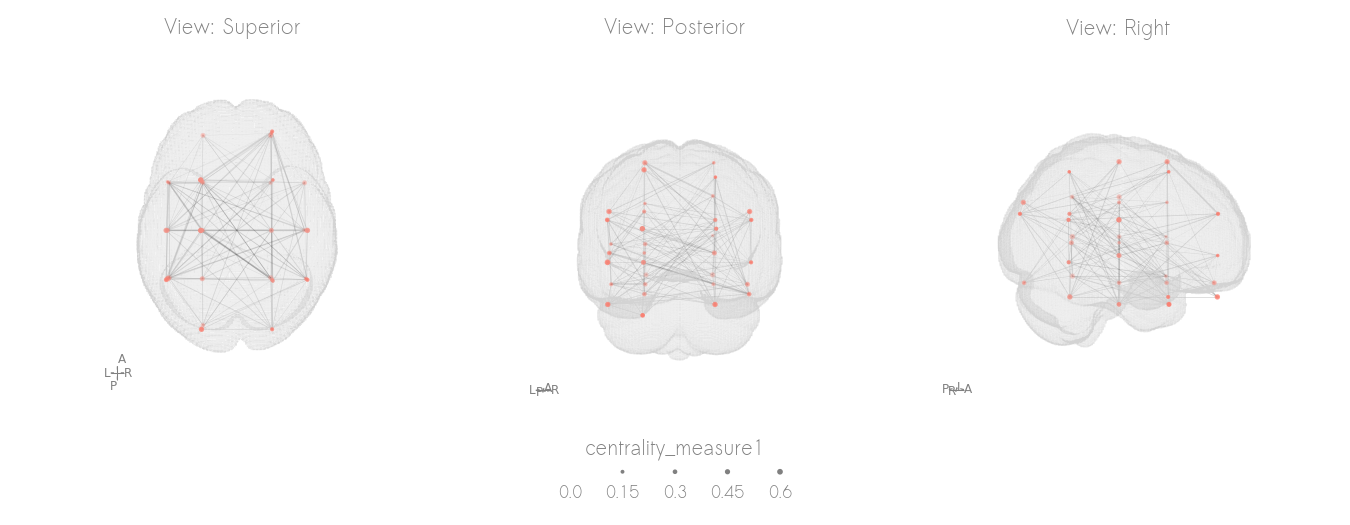
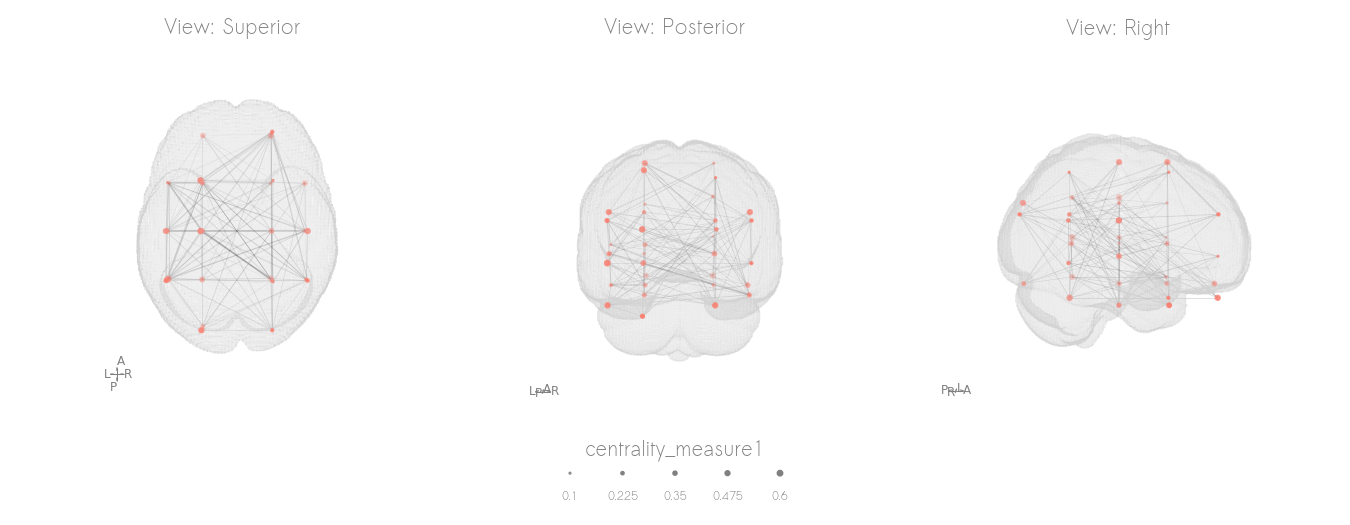
kwarg improvements

diff --git a/netplotbrain/plot.py b/netplotbrain/plot.py
@@ -7,13 +7,12 @@ from .plotting import _plot_template, \
     _add_nodesize_legend, _add_nodecolor_legend, _init_figure, _check_axinput
 
 
-from .utils import _highlight_nodes, _get_colorby_colors, _set_axes_equal, _get_view, _load_profile
+from .utils import _highlight_nodes, _get_colorby_colors, _set_axes_equal, _get_view, _load_profile, _nrows_in_fig
 
 
 def plot(nodes=None, fig=None, ax=None, view='L', frames=1, edges=None, template=None, templatestyle='filled',
          templatevoxsize=None, arrowaxis='auto', arroworigin=None, edgecolor='k', nodesize=1, nodecolor='salmon', nodetype='circles', nodecolorby=None,
-         nodecmap='Dark2', edgescale=1, edgeweights=True, nodecols='auto', nodeimg=None, nodealpha=1, hemisphere='both', title='auto', highlightnodes=None,
-         edgealpha=1, highlightlevel=0.85, edgehighlightbehaviour='both', showlegend=True, **kwargs):
+         nodecmap='Dark2', edgeweights=True, nodecols='auto', nodeimg=None, hemisphere='both', title='auto', highlightnodes=None, showlegend=True, **kwargs):
     """
     Plot a network on a brain
 
@@ -109,12 +108,14 @@ def plot(nodes=None, fig=None, ax=None, view='L', frames=1, edges=None, template
         String that specifies column in edge dataframe that contains weights.
         If numpy array is edge input, can be True (default) to specify edge weights.
     edgealpha : float
-        Transparency of edges.
+        Transparency of edges (default: 1).
     edgehighlightbehaviour : str
         Alternatives "both" or "any" or None.
         Governs edge dimming when highlightnodes is on
         If both, then highlights only edges between highlighted nodes.
         If any, then only edges connecting any of the nodes are highlighted.
+    edgewidthscale : int, float
+        Scale the width of all edges by a factor (default: 1)
 
     TEMPLATE KWARGS
 
@@ -175,23 +176,15 @@ def plot(nodes=None, fig=None, ax=None, view='L', frames=1, edges=None, template
     nodes, nodeimg, nodecols = _process_node_input(
         nodes, nodeimg, nodecols, template, templatevoxsize)
     edges, edgeweights = _process_edge_input(edges, edgeweights)
-    # TODO add function for subplot creation here
-    # get the number of views
-    if isinstance(view, list):
-        nrows = len(view)
-    else:
-        nrows = 1
-        view = [view]
-    # If specific views are given, calculate value of frames.
-    if len(view[0]) > 2:
-        frames = len(view[0])
+
     # Set up legend row
+    # TODO compact code into subfunction
     legends = None
     legendrows = 0
     if isinstance(showlegend, list):
         legends = showlegend
         legendrows = len(legends)
-    if showlegend is True:
+    elif showlegend is True:
         # Only plot size legend is sphere/circle and string or list input
         # TODO setup_legend is a little clunky and could be fized
         if nodetype != 'parcel' and not isinstance(nodesize, (float, int)):
@@ -205,20 +198,26 @@ def plot(nodes=None, fig=None, ax=None, view='L', frames=1, edges=None, template
                 nodecolorby, nodecolorlegend, 'nodecolor', legends)
         if legends is not None:
             legendrows = len(legends)
+
+    # Figure setup
+    # Get number of non-legend rows
+    nrows, view, frames = _nrows_in_fig(view, frames)
     # Init figure, if not given as input
     if ax is None:
         fig, gridspec = _init_figure(frames, nrows, legendrows)
     else:
         expected_ax_len = (nrows * frames) + legendrows
         _check_axinput(ax, expected_ax_len)
+
     # Set nodecolor to colorby argument
     if nodecolorby is not None:
         nodecolor = _get_colorby_colors(nodes, nodecolorby, nodecmap)
     if highlightnodes is not None:
         nodecolor, highlightnodes = _highlight_nodes(
-            nodes, nodecolor, nodealpha, highlightnodes, highlightlevel)
+            nodes, nodecolor, highlightnodes, **profile)
+
+    # Rename ax as ax_in and prespecfiy ax_out before forloop
     ax_in = ax
-    # Prespecify ouput ax list
     ax_out = []
     # TODO remove double forloop and make single forloop by running over nrows and frames
     for ri in range(nrows):
@@ -239,7 +238,6 @@ def plot(nodes=None, fig=None, ax=None, view='L', frames=1, edges=None, template
                 ax = ax_in[axind]
             else:
                 ax = ax_in
-
             affine = None
             if template is not None:
                 affine = _plot_template(ax, templatestyle, template,
@@ -269,13 +267,12 @@ def plot(nodes=None, fig=None, ax=None, view='L', frames=1, edges=None, template
                     _plot_nodes(ax, nodes_frame, nodecolor=nodecolor,
                                 nodesize=nodesize, nodecols=nodecols, **profile)
                 elif nodetype == 'parcels':
-                    _plot_parcels(ax, nodeimg, alpha=nodealpha,
-                                  cmap=nodecolor, hemisphere=hemi_frame, **profile)
+                    _plot_parcels(ax, nodeimg, cmap=nodecolor,
+                                  hemisphere=hemi_frame, **profile)
             if edges is not None:
                 edges_frame = edges.copy()
-                _plot_edges(ax, nodes_frame, edges_frame, edgewidth=edgeweights, edgewidthscale=edgescale,
-                            edgecolor=edgecolor, edgealpha=edgealpha, highlightnodes=highlightnodes, highlightlevel=highlightlevel,
-                            edgehighlightbehaviour=edgehighlightbehaviour)
+                _plot_edges(ax, nodes_frame, edges_frame, edgewidth=edgeweights,
+                            edgecolor=edgecolor, highlightnodes=highlightnodes, **profile)
             if arrowaxis_row is not None:
                 _add_axis_arrows(ax, dims=arrowaxis_row,
                                  origin=arroworigin,
@@ -289,6 +286,7 @@ def plot(nodes=None, fig=None, ax=None, view='L', frames=1, edges=None, template
             ax.axis('off')
             # Append ax to ax_out to store it.
             ax_out.append(ax)
+
     # Add legends to plot
     if legends is not None:
         for li, legend in enumerate(legends):

diff --git a/netplotbrain/plotting/plot_edges.py b/netplotbrain/plotting/plot_edges.py
@@ -22,7 +22,10 @@ def _npedges2dfedges(edges, edgethreshold=0):
     return df
 
 
-def _get_edge_highlight_alpha(node_i, node_j, highlightnodes, highlightlevel, edgehighlightbehaviour, edgealpha):
+def _get_edge_highlight_alpha(node_i, node_j, highlightnodes, **kwargs):
+    edgealpha = kwargs.get('edgealpha')
+    highlightlevel = kwargs.get('highlightlevel')
+    edgehighlightbehaviour = kwargs.get('edgehighlightbehaviour')
     if highlightnodes is None or edgehighlightbehaviour is None:
         pass
     elif node_i in highlightnodes and node_j in highlightnodes and edgehighlightbehaviour == 'both':
@@ -34,7 +37,7 @@ def _get_edge_highlight_alpha(node_i, node_j, highlightnodes, highlightlevel, ed
     return edgealpha
 
 
-def _plot_edges(ax, nodes, edges, edgewidth=None, edgewidthscale=1, edgecolor='k', edgecol=['i', 'j'], edgealpha=None, highlightnodes=None, highlightlevel=None, edgehighlightbehaviour='both'):
+def _plot_edges(ax, nodes, edges, edgewidth=None, edgecolor='k', edgecol=['i', 'j'], highlightnodes=None, **kwargs):
     """
     Plots the edges on the plot.
 
@@ -55,8 +58,6 @@ def _plot_edges(ax, nodes, edges, edgewidth=None, edgewidthscale=1, edgecolor='k
         list of length 2.
         The first two, reference the node indicies in nodes.
         The third referencees the weights.
-    edgealpha : float
-        Transparency of edges.
     highlightnodes : list
         See netplotbrain.plot
     highlightlevel : float
@@ -67,12 +68,18 @@ def _plot_edges(ax, nodes, edges, edgewidth=None, edgewidthscale=1, edgecolor='k
         If both, then highlights only edges between highlighted nodes.
         If any, then only edges connecting any of the nodes are highlighted.
 
+    kwargs
+    ---------------------
+    edgealpha : float
+        Transparency of edges.
+
     Returns
     ----------------------
     Nothing
     """
+    edgewidthscale = kwargs.get('edgewidthscale')
     # Convert highlightnodes binary list to index list
-    hl_idx = np.where(np.array(highlightnodes)==1)[0]
+    hl_idx = np.where(np.array(highlightnodes) == 1)[0]
     # if dataframe
     for _, row in edges.iterrows():
         # if row[edgecol[0]] != 0 and row[edgecol[1]] != 0:
@@ -82,7 +89,7 @@ def _plot_edges(ax, nodes, edges, edgewidth=None, edgewidthscale=1, edgecolor='k
             ew = row[edgewidth] * edgewidthscale
         if row[edgecol[0]] in nodes.index and row[edgecol[1]] in nodes.index:
             ea = _get_edge_highlight_alpha(
-                row[edgecol[0]], row[edgecol[1]], hl_idx, highlightlevel, edgehighlightbehaviour, edgealpha)
+                row[edgecol[0]], row[edgecol[1]], hl_idx, **kwargs)
             xp = nodes.loc[list((row[edgecol[0]], row[edgecol[1]]))]['x']
             yp = nodes.loc[list((row[edgecol[0]], row[edgecol[1]]))]['y']
             zp = nodes.loc[list((row[edgecol[0]], row[edgecol[1]]))]['z']

diff --git a/netplotbrain/utils/plot_utils.py b/netplotbrain/utils/plot_utils.py
@@ -87,6 +87,7 @@ def _get_view(views='L', frames=1, arrowaxis='auto'):
         arrowaxis = autoarrowaxis
     return vx, vy, arrowaxis
 
+
 def _rotate_data_to_viewingangle(data, azim=0, elev=0, rotateback=False):
     """
     Returns rotated data
@@ -99,6 +100,7 @@ def _rotate_data_to_viewingangle(data, azim=0, elev=0, rotateback=False):
     if elev != 0:
         data = rotate(data, -elev, axes=[0, 2], reshape=False, prefilter=False)
     return data
+
 
 def _node_scale_vminvmax(nodes, nodesize, return_labels=False, **kwargs):
     """
@@ -115,7 +117,8 @@ def _node_scale_vminvmax(nodes, nodesize, return_labels=False, **kwargs):
         nodesizevector[nodesizevector < vminvmax[0]] = np.nan
         nodesizevector[nodesizevector > vminvmax[1]] = np.nan
         # After removing scale so that vmin and vmax are lowest and highest numbers
-        nodesizevector = (nodesizevector - vminvmax[0]) / (vminvmax[1] - vminvmax[0]) * (1.05 - 0.05) + 0.05
+        nodesizevector = (
+            nodesizevector - vminvmax[0]) / (vminvmax[1] - vminvmax[0]) * (1.05 - 0.05) + 0.05
     elif isinstance(vminvmax, str):
         if vminvmax == 'maxabs':
             nodesizevector = np.abs(nodesizevector)
@@ -125,7 +128,8 @@ def _node_scale_vminvmax(nodes, nodesize, return_labels=False, **kwargs):
         if vminvmax == 'minmax':
             # Add small value to ensure smallest value is not 0.1 and 1.1 to ensure min value is still seen
             # TODO this value could be scaled.
-            nodesizevector = (nodesizevector - nodesizevector.min()) / (nodesizevector.max() - nodesizevector.min()) * (1.05 - 0.05) + 0.05
+            nodesizevector = (nodesizevector - nodesizevector.min()) / \
+                (nodesizevector.max() - nodesizevector.min()) * (1.05 - 0.05) + 0.05
 
     nodesizevector = nodesizevector * nodescale
     if return_labels:
@@ -139,3 +143,19 @@ def _node_scale_vminvmax(nodes, nodesize, return_labels=False, **kwargs):
     if return_labels:
         nodesizevector = (nodesizevector, nodesizelabels)
     return nodesizevector
+
+
+def _nrows_in_fig(view, frames):
+    """
+    Return the number of rows and modify the view and frame input
+    """
+    # get the number of views
+    if isinstance(view, list):
+        nrows = len(view)
+    else:
+        nrows = 1
+        view = [view]
+    # If specific views are given, calculate value of frames.
+    if len(view[0]) > 2:
+        frames = len(view[0])
+    return nrows, view, frames

diff --git a/netplotbrain/utils/coloring.py b/netplotbrain/utils/coloring.py
@@ -3,6 +3,7 @@ import matplotlib.colors as pltcol
 import numpy as np
 import pandas as pd
 
+
 def _colorarray_from_string(cmap, ncolors):
     """Get colormap array from string that loops through colors."""
     if cmap in pltcol.cnames or cmap[0] == '#':
@@ -15,7 +16,9 @@ def _colorarray_from_string(cmap, ncolors):
     return colors[:ncolors]
 
 
-def _highlight_nodes(nodes, nodecolor, nodealpha, highlightnodes, highlightlevel=0.75):
+def _highlight_nodes(nodes, nodecolor, highlightnodes, **kwargs):
+    highlightlevel = kwargs.get('highlightlevel')
+    nodealpha = kwargs.get('nodealpha')
     if isinstance(highlightnodes, dict):
         highlight_idx = nodes[highlightnodes.keys()] == highlightnodes.values()
         highlight_idx = np.squeeze(highlight_idx.values)
@@ -37,6 +40,7 @@ def assign_color(row, colordict):
         return np.array([1, 1, 1, 0])
     else:
         return colordict[row]
+
 
 def _get_colorby_colors(df, colorby=None, cmap='plasma'):
     """

diff --git a/netplotbrain/plotting/plot_parcels.py b/netplotbrain/plotting/plot_parcels.py
@@ -77,13 +77,14 @@ def _get_nodes_from_nii(img, nodes=None, voxsize=None, template=None):
     return nodes, img
 
 
-def _plot_parcels(ax, img, alpha, cmap='Set2', hemisphere='both', **kwargs):
+def _plot_parcels(ax, img, cmap='Set2', hemisphere='both', **kwargs):
     """
     Plot each 3D parcels as a rendered surface.
 
     See plot for input arguments.
     """
     # get kwargs
+    alpha = kwargs.get('nodealpha')
     surface_resolution = kwargs.get('surface_resolution')
     # Due to only being able to get data once, this leads to problems when LR hemi are specieid
     data = img.get_fdata(caching='unchanged').copy()
@@ -169,4 +170,3 @@ def _plot_parcels(ax, img, alpha, cmap='Set2', hemisphere='both', **kwargs):
 #     ax.set_xlim(0, data.shape[0])
 #     ax.set_ylim(0, data.shape[1])
 #     ax.set_zlim(0, data.shape[2])
-

diff --git a/netplotbrain/plotting/__init__.py b/netplotbrain/plotting/__init__.py
@@ -1,4 +1,4 @@
-"""Main plotting functoins in package."""
+"""Main plotting functions in package."""
 from .plot_edges import _plot_edges, _npedges2dfedges
 from .plot_nodes import _scale_nodes, _plot_nodes, _select_single_hemisphere_nodes
 from .plot_spheres import _plot_spheres
@@ -10,6 +10,7 @@ from .plot_title import _add_subplot_title
 from .process_input import get_frame_input, _process_edge_input, _process_node_input,\
     _init_figure, _check_axinput
 from .plot_legend import _add_nodecolor_legend, _add_nodesize_legend, _setup_legend
+
 __all__ = ['_plot_template', '_plot_template_style_filled',
            '_plot_template_style_cloudy',
            '_scale_nodes', '_plot_nodes', '_plot_spheres',

diff --git a/netplotbrain/utils/__init__.py b/netplotbrain/utils/__init__.py
@@ -1,5 +1,10 @@
 """Util funcitons."""
 from .plot_utils import _set_axes_equal, _set_axes_radius, _get_view, _rotate_data_to_viewingangle,\
-                        _node_scale_vminvmax
+                        _node_scale_vminvmax, _nrows_in_fig
 from .coloring import _get_colorby_colors, _highlight_nodes, _colorarray_from_string
 from .settings import _load_profile
+
+
+__all__ = ['_set_axes_equal', '_set_axes_radius', '_get_view', '_rotate_data_to_viewingangle', '_node_scale_vminvmax', '_nrows_in_fig']
+__all__ += ['_get_colorby_colors', '_highlight_nodes', '_colorarray_from_string']
+__all__ += ['_load_profile']

diff --git a/netplotbrain/templatesettings/__init__.py b/netplotbrain/templatesettings/__init__.py
@@ -1,3 +1,4 @@
 """Functions relevant to optimal default templateflow behaviour."""
 from .surface_detection import _get_surface_level_for_template
 
+__all__ = ['_get_surface_level_for_template']
